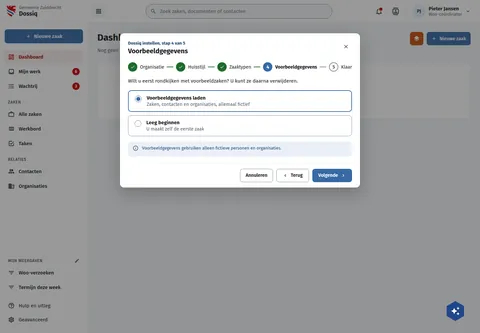
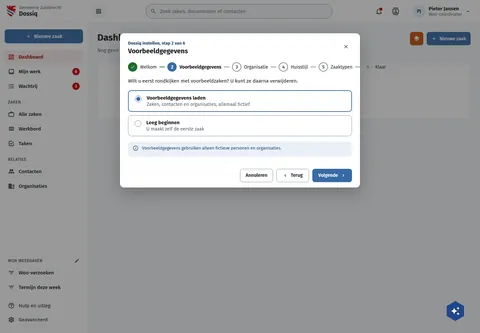
fix(screens): DqInstellen opens with Welkom, then the example data
Ruben, 3 Nov 2026: ADR-111 rule 4 wins over the board's order. The
wizard says what Dossiq is first, then offers the example data, then
asks for the organisation, house style and case types. The board shows
the example data step as step 2 of 6, with Welkom done.

Built with scripts/screens/build.py --only DqInstellen.

Assisted-by: ClaudeCode:claude-opus-5-5

Changed region(s): [[0.2812, 0.1802, 0.75, 0.2402], [0.7812, 0.1802, 0.8125, 0.2102]]

diff --git a/preview/screens/boards/DqInstellen.html b/preview/screens/boards/DqInstellen.html
@@ -151,10 +151,10 @@ a{color:var(--sc-primary, #3669a5)}a:hover{color:var(--sc-primary-deep, #234a78)
   <div style="position: absolute; inset: 0; background: rgba(27,28,29,0.45); display: flex; justify-content: center; align-items: flex-start; padding: 100px 16px 24px; box-sizing: border-box">
     <div role="dialog" aria-modal="true" aria-labelledby="dlg-titel" style="width: 720px; max-width: 100%; background: #ffffff; border-radius: 12px; box-shadow: 0 16px 48px rgba(27,28,29,0.28); display: flex; flex-direction: column">
       <div style="display: flex; justify-content: space-between; align-items: flex-start; gap: 16px; padding: 22px 24px 4px">
-        <div style="display: flex; flex-direction: column; gap: 4px"><span style="font-size: 13px; font-weight: 700; color: var(--sc-primary-deep, #234a78)">Dossiq instellen, stap 4 van 5</span><h2 id="dlg-titel" style="margin: 0; font-size: 20px; font-weight: 700">Voorbeeldgegevens</h2></div>
+        <div style="display: flex; flex-direction: column; gap: 4px"><span style="font-size: 13px; font-weight: 700; color: var(--sc-primary-deep, #234a78)">Dossiq instellen, stap 2 van 6</span><h2 id="dlg-titel" style="margin: 0; font-size: 20px; font-weight: 700">Voorbeeldgegevens</h2></div>
         <button type="button" aria-label="Sluiten" style="width: 36px; height: 36px; border: 0; border-radius: 18px; background: transparent; color: var(--sc-work-text, #3d4047); display: inline-flex; align-items: center; justify-content: center"><svg width="18" height="18" viewbox="0 0 24 24" fill="currentColor" aria-hidden="true"><path d="M19,6.41L17.59,5L12,10.59L6.41,5L5,6.41L10.59,12L5,17.59L6.41,19L12,13.41L17.59,19L19,17.59L13.41,12L19,6.41Z"></path></svg></button>
       </div>
-      <div style="padding: 18px 24px 20px; display: flex; flex-direction: column; gap: 16px"><ol style="margin: 0; padding: 0; list-style: none; display: flex; align-items: center; gap: 8px"><li style="display: flex; align-items: center; gap: 8px; font-size: 14px; "><span style="width: 28px; height: 28px; border-radius: 14px; background: #1e6b2a; color: #ffffff; display: flex; align-items: center; justify-content: center"><svg width="14" height="14" viewbox="0 0 24 24" fill="currentColor" aria-hidden="true"><path d="M21,7L9,19L3.5,13.5L4.91,12.09L9,16.17L19.59,5.59L21,7Z"></path></svg></span>Organisatie</li><li aria-hidden="true" style="flex: 1; height: 2px; background: #1e6b2a; min-width: 16px"></li><li style="display: flex; align-items: center; gap: 8px; font-size: 14px; "><span style="width: 28px; height: 28px; border-radius: 14px; background: #1e6b2a; color: #ffffff; display: flex; align-items: center; justify-content: center"><svg width="14" height="14" viewbox="0 0 24 24" fill="currentColor" aria-hidden="true"><path d="M21,7L9,19L3.5,13.5L4.91,12.09L9,16.17L19.59,5.59L21,7Z"></path></svg></span>Huisstijl</li><li aria-hidden="true" style="flex: 1; height: 2px; background: #1e6b2a; min-width: 16px"></li><li style="display: flex; align-items: center; gap: 8px; font-size: 14px; "><span style="width: 28px; height: 28px; border-radius: 14px; background: #1e6b2a; color: #ffffff; display: flex; align-items: center; justify-content: center"><svg width="14" height="14" viewbox="0 0 24 24" fill="currentColor" aria-hidden="true"><path d="M21,7L9,19L3.5,13.5L4.91,12.09L9,16.17L19.59,5.59L21,7Z"></path></svg></span>Zaaktypen</li><li aria-hidden="true" style="flex: 1; height: 2px; background: #1e6b2a; min-width: 16px"></li><li style="display: flex; align-items: center; gap: 8px; font-size: 14px; font-weight: 700"><span style="width: 28px; height: 28px; border-radius: 14px; background: var(--sc-primary, #3669a5); color: #ffffff; display: flex; align-items: center; justify-content: center; font-weight: 700; font-size: 14px">4</span>Voorbeeldgegevens</li><li aria-hidden="true" style="flex: 1; height: 2px; background: var(--sc-work-field, #828a95); min-width: 16px"></li><li style="display: flex; align-items: center; gap: 8px; font-size: 14px; "><span style="width: 28px; height: 28px; box-sizing: border-box; border-radius: 14px; border: 2px solid var(--sc-work-field, #828a95); color: var(--sc-work-muted, #5e6168); display: flex; align-items: center; justify-content: center; font-weight: 700; font-size: 14px">5</span>Klaar</li></ol><p style="margin: 0; font-size: 15px; line-height: 1.6">Wilt u eerst rondkijken met voorbeeldzaken? U kunt ze daarna verwijderen.</p><fieldset style="margin: 0; padding: 0; border: 0; display: flex; flex-direction: column; gap: 10px"><label style="display: flex; gap: 12px; align-items: flex-start; padding: 12px 14px; border: 2px solid var(--sc-primary, #3669a5); border-radius: 10px"><input type="radio" checked style="width: 20px; height: 20px; accent-color: var(--sc-primary, #3669a5); margin-top: 2px"><span style="display: flex; flex-direction: column; gap: 2px"><strong style="font-size: 15px">Voorbeeldgegevens laden</strong><span style="font-size: 14px; color: var(--sc-work-muted, #5e6168)">Zaken, contacten en organisaties, allemaal fictief</span></span></label><label style="display: flex; gap: 12px; align-items: flex-start; padding: 12px 14px; border: 1px solid var(--sc-work-field, #828a95); border-radius: 10px"><input type="radio" style="width: 20px; height: 20px; accent-color: var(--sc-primary, #3669a5); margin-top: 2px"><span style="display: flex; flex-direction: column; gap: 2px"><strong style="font-size: 15px">Leeg beginnen</strong><span style="font-size: 14px; color: var(--sc-work-muted, #5e6168)">U maakt zelf de eerste zaak</span></span></label></fieldset><div style="display: flex; gap: 10px; align-items: flex-start; padding: 10px 14px; border-radius: 10px; background: var(--sc-primary-light, #eaf0f7); color: var(--sc-primary-deep, #234a78); font-size: 13px; line-height: 1.5"><span style="flex: none; margin-top: 1px"><svg width="18" height="18" viewbox="0 0 24 24" fill="currentColor" aria-hidden="true"><path d="M11,9H13V7H11M12,20C7.59,20 4,16.41 4,12C4,7.59 7.59,4 12,4C16.41,4 20,7.59 20,12C20,16.41 16.41,20 12,20M12,2A10,10 0 0,0 2,12A10,10 0 0,0 12,22A10,10 0 0,0 22,12A10,10 0 0,0 12,2M11,17H13V11H11V17Z"></path></svg></span><span>Voorbeeldgegevens gebruiken alleen fictieve personen en organisaties.</span></div></div>
+      <div style="padding: 18px 24px 20px; display: flex; flex-direction: column; gap: 16px"><ol style="margin: 0; padding: 0; list-style: none; display: flex; align-items: center; gap: 8px"><li style="display: flex; align-items: center; gap: 8px; font-size: 14px; "><span style="width: 28px; height: 28px; border-radius: 14px; background: #1e6b2a; color: #ffffff; display: flex; align-items: center; justify-content: center"><svg width="14" height="14" viewbox="0 0 24 24" fill="currentColor" aria-hidden="true"><path d="M21,7L9,19L3.5,13.5L4.91,12.09L9,16.17L19.59,5.59L21,7Z"></path></svg></span>Welkom</li><li aria-hidden="true" style="flex: 1; height: 2px; background: #1e6b2a; min-width: 16px"></li><li style="display: flex; align-items: center; gap: 8px; font-size: 14px; font-weight: 700"><span style="width: 28px; height: 28px; border-radius: 14px; background: var(--sc-primary, #3669a5); color: #ffffff; display: flex; align-items: center; justify-content: center; font-weight: 700; font-size: 14px">2</span>Voorbeeldgegevens</li><li aria-hidden="true" style="flex: 1; height: 2px; background: var(--sc-work-field, #828a95); min-width: 16px"></li><li style="display: flex; align-items: center; gap: 8px; font-size: 14px; "><span style="width: 28px; height: 28px; box-sizing: border-box; border-radius: 14px; border: 2px solid var(--sc-work-field, #828a95); color: var(--sc-work-muted, #5e6168); display: flex; align-items: center; justify-content: center; font-weight: 700; font-size: 14px">3</span>Organisatie</li><li aria-hidden="true" style="flex: 1; height: 2px; background: var(--sc-work-field, #828a95); min-width: 16px"></li><li style="display: flex; align-items: center; gap: 8px; font-size: 14px; "><span style="width: 28px; height: 28px; box-sizing: border-box; border-radius: 14px; border: 2px solid var(--sc-work-field, #828a95); color: var(--sc-work-muted, #5e6168); display: flex; align-items: center; justify-content: center; font-weight: 700; font-size: 14px">4</span>Huisstijl</li><li aria-hidden="true" style="flex: 1; height: 2px; background: var(--sc-work-field, #828a95); min-width: 16px"></li><li style="display: flex; align-items: center; gap: 8px; font-size: 14px; "><span style="width: 28px; height: 28px; box-sizing: border-box; border-radius: 14px; border: 2px solid var(--sc-work-field, #828a95); color: var(--sc-work-muted, #5e6168); display: flex; align-items: center; justify-content: center; font-weight: 700; font-size: 14px">5</span>Zaaktypen</li><li aria-hidden="true" style="flex: 1; height: 2px; background: var(--sc-work-field, #828a95); min-width: 16px"></li><li style="display: flex; align-items: center; gap: 8px; font-size: 14px; "><span style="width: 28px; height: 28px; box-sizing: border-box; border-radius: 14px; border: 2px solid var(--sc-work-field, #828a95); color: var(--sc-work-muted, #5e6168); display: flex; align-items: center; justify-content: center; font-weight: 700; font-size: 14px">6</span>Klaar</li></ol><p style="margin: 0; font-size: 15px; line-height: 1.6">Wilt u eerst rondkijken met voorbeeldzaken? U kunt ze daarna verwijderen.</p><fieldset style="margin: 0; padding: 0; border: 0; display: flex; flex-direction: column; gap: 10px"><label style="display: flex; gap: 12px; align-items: flex-start; padding: 12px 14px; border: 2px solid var(--sc-primary, #3669a5); border-radius: 10px"><input type="radio" checked style="width: 20px; height: 20px; accent-color: var(--sc-primary, #3669a5); margin-top: 2px"><span style="display: flex; flex-direction: column; gap: 2px"><strong style="font-size: 15px">Voorbeeldgegevens laden</strong><span style="font-size: 14px; color: var(--sc-work-muted, #5e6168)">Zaken, contacten en organisaties, allemaal fictief</span></span></label><label style="display: flex; gap: 12px; align-items: flex-start; padding: 12px 14px; border: 1px solid var(--sc-work-field, #828a95); border-radius: 10px"><input type="radio" style="width: 20px; height: 20px; accent-color: var(--sc-primary, #3669a5); margin-top: 2px"><span style="display: flex; flex-direction: column; gap: 2px"><strong style="font-size: 15px">Leeg beginnen</strong><span style="font-size: 14px; color: var(--sc-work-muted, #5e6168)">U maakt zelf de eerste zaak</span></span></label></fieldset><div style="display: flex; gap: 10px; align-items: flex-start; padding: 10px 14px; border-radius: 10px; background: var(--sc-primary-light, #eaf0f7); color: var(--sc-primary-deep, #234a78); font-size: 13px; line-height: 1.5"><span style="flex: none; margin-top: 1px"><svg width="18" height="18" viewbox="0 0 24 24" fill="currentColor" aria-hidden="true"><path d="M11,9H13V7H11M12,20C7.59,20 4,16.41 4,12C4,7.59 7.59,4 12,4C16.41,4 20,7.59 20,12C20,16.41 16.41,20 12,20M12,2A10,10 0 0,0 2,12A10,10 0 0,0 12,22A10,10 0 0,0 22,12A10,10 0 0,0 12,2M11,17H13V11H11V17Z"></path></svg></span><span>Voorbeeldgegevens gebruiken alleen fictieve personen en organisaties.</span></div></div>
       <div style="display: flex; justify-content: flex-end; gap: 10px; padding: 16px 24px; border-top: 1px solid var(--sc-work-soft, #eef0f3)"><button type="button" style="display: inline-flex; align-items: center; gap: 8px; height: 40px; padding: 0 16px; border-radius: 8px; font: 600 14px var(--sc-font, 'Fira Sans'), sans-serif; white-space: nowrap; border: 1px solid var(--sc-work-field, #828a95); background: #ffffff; color: var(--sc-work-ink, #1b1c1d);">Annuleren</button><button type="button" style="display: inline-flex; align-items: center; gap: 8px; height: 40px; padding: 0 18px; border-radius: 8px; font: 600 14px var(--sc-font, 'Fira Sans'), sans-serif; white-space: nowrap; border: 1px solid var(--sc-work-field, #828a95); background: #ffffff; color: var(--sc-work-ink, #1b1c1d);"><svg width="16" height="16" viewbox="0 0 24 24" fill="currentColor" aria-hidden="true"><path d="M15.41,16.58L10.83,12L15.41,7.41L14,6L8,12L14,18L15.41,16.58Z"></path></svg>Terug</button><button type="button" style="display: inline-flex; align-items: center; gap: 8px; height: 40px; padding: 0 18px; border-radius: 8px; font: 600 14px var(--sc-font, 'Fira Sans'), sans-serif; white-space: nowrap; border: 0; background: var(--sc-primary, #3669a5); color: #ffffff;">Volgende<svg width="16" height="16" viewbox="0 0 24 24" fill="currentColor" aria-hidden="true"><path d="M8.59,16.58L13.17,12L8.59,7.41L10,6L16,12L10,18L8.59,16.58Z"></path></svg></button></div>
     </div>
   </div>

diff --git a/screens-src/zuiddrecht/DqInstellen.dc.html b/screens-src/zuiddrecht/DqInstellen.dc.html
@@ -33,10 +33,10 @@ a{color:#3669a5}a:hover{color:#234a78}
   <div style="position: absolute; inset: 0; background: rgba(27,28,29,0.45); display: flex; justify-content: center; align-items: flex-start; padding: 100px 16px 24px; box-sizing: border-box">
     <div role="dialog" aria-modal="true" aria-labelledby="dlg-titel" style="width: 720px; max-width: 100%; background: #ffffff; border-radius: 12px; box-shadow: 0 16px 48px rgba(27,28,29,0.28); display: flex; flex-direction: column">
       <div style="display: flex; justify-content: space-between; align-items: flex-start; gap: 16px; padding: 22px 24px 4px">
-        <div style="display: flex; flex-direction: column; gap: 4px"><span style="font-size: 13px; font-weight: 700; color: #234a78">Dossiq instellen, stap 4 van 5</span><h2 id="dlg-titel" style="margin: 0; font-size: 20px; font-weight: 700">Voorbeeldgegevens</h2></div>
+        <div style="display: flex; flex-direction: column; gap: 4px"><span style="font-size: 13px; font-weight: 700; color: #234a78">Dossiq instellen, stap 2 van 6</span><h2 id="dlg-titel" style="margin: 0; font-size: 20px; font-weight: 700">Voorbeeldgegevens</h2></div>
         <button type="button" aria-label="Sluiten" style="width: 36px; height: 36px; border: 0; border-radius: 18px; background: transparent; color: #3d4047; display: inline-flex; align-items: center; justify-content: center"><svg width="18" height="18" viewBox="0 0 24 24" fill="currentColor" aria-hidden="true"><path d="M19,6.41L17.59,5L12,10.59L6.41,5L5,6.41L10.59,12L5,17.59L6.41,19L12,13.41L17.59,19L19,17.59L13.41,12L19,6.41Z"></path></svg></button>
       </div>
-      <div style="padding: 18px 24px 20px; display: flex; flex-direction: column; gap: 16px"><ol style="margin: 0; padding: 0; list-style: none; display: flex; align-items: center; gap: 8px"><li style="display: flex; align-items: center; gap: 8px; font-size: 14px; "><span style="width: 28px; height: 28px; border-radius: 14px; background: #1e6b2a; color: #ffffff; display: flex; align-items: center; justify-content: center"><svg width="14" height="14" viewBox="0 0 24 24" fill="currentColor" aria-hidden="true"><path d="M21,7L9,19L3.5,13.5L4.91,12.09L9,16.17L19.59,5.59L21,7Z"></path></svg></span>Organisatie</li><li aria-hidden="true" style="flex: 1; height: 2px; background: #1e6b2a; min-width: 16px"></li><li style="display: flex; align-items: center; gap: 8px; font-size: 14px; "><span style="width: 28px; height: 28px; border-radius: 14px; background: #1e6b2a; color: #ffffff; display: flex; align-items: center; justify-content: center"><svg width="14" height="14" viewBox="0 0 24 24" fill="currentColor" aria-hidden="true"><path d="M21,7L9,19L3.5,13.5L4.91,12.09L9,16.17L19.59,5.59L21,7Z"></path></svg></span>Huisstijl</li><li aria-hidden="true" style="flex: 1; height: 2px; background: #1e6b2a; min-width: 16px"></li><li style="display: flex; align-items: center; gap: 8px; font-size: 14px; "><span style="width: 28px; height: 28px; border-radius: 14px; background: #1e6b2a; color: #ffffff; display: flex; align-items: center; justify-content: center"><svg width="14" height="14" viewBox="0 0 24 24" fill="currentColor" aria-hidden="true"><path d="M21,7L9,19L3.5,13.5L4.91,12.09L9,16.17L19.59,5.59L21,7Z"></path></svg></span>Zaaktypen</li><li aria-hidden="true" style="flex: 1; height: 2px; background: #1e6b2a; min-width: 16px"></li><li style="display: flex; align-items: center; gap: 8px; font-size: 14px; font-weight: 700"><span style="width: 28px; height: 28px; border-radius: 14px; background: #3669a5; color: #ffffff; display: flex; align-items: center; justify-content: center; font-weight: 700; font-size: 14px">4</span>Voorbeeldgegevens</li><li aria-hidden="true" style="flex: 1; height: 2px; background: #828a95; min-width: 16px"></li><li style="display: flex; align-items: center; gap: 8px; font-size: 14px; "><span style="width: 28px; height: 28px; box-sizing: border-box; border-radius: 14px; border: 2px solid #828a95; color: #5e6168; display: flex; align-items: center; justify-content: center; font-weight: 700; font-size: 14px">5</span>Klaar</li></ol><p style="margin: 0; font-size: 15px; line-height: 1.6">Wilt u eerst rondkijken met voorbeeldzaken? U kunt ze daarna verwijderen.</p><fieldset style="margin: 0; padding: 0; border: 0; display: flex; flex-direction: column; gap: 10px"><label style="display: flex; gap: 12px; align-items: flex-start; padding: 12px 14px; border: 2px solid #3669a5; border-radius: 10px"><input type="radio" checked style="width: 20px; height: 20px; accent-color: #3669a5; margin-top: 2px"><span style="display: flex; flex-direction: column; gap: 2px"><strong style="font-size: 15px">Voorbeeldgegevens laden</strong><span style="font-size: 14px; color: #5e6168">Zaken, contacten en organisaties, allemaal fictief</span></span></label><label style="display: flex; gap: 12px; align-items: flex-start; padding: 12px 14px; border: 1px solid #828a95; border-radius: 10px"><input type="radio"  style="width: 20px; height: 20px; accent-color: #3669a5; margin-top: 2px"><span style="display: flex; flex-direction: column; gap: 2px"><strong style="font-size: 15px">Leeg beginnen</strong><span style="font-size: 14px; color: #5e6168">U maakt zelf de eerste zaak</span></span></label></fieldset><div style="display: flex; gap: 10px; align-items: flex-start; padding: 10px 14px; border-radius: 10px; background: #eaf0f7; color: #234a78; font-size: 13px; line-height: 1.5"><span style="flex: none; margin-top: 1px"><svg width="18" height="18" viewBox="0 0 24 24" fill="currentColor" aria-hidden="true"><path d="M11,9H13V7H11M12,20C7.59,20 4,16.41 4,12C4,7.59 7.59,4 12,4C16.41,4 20,7.59 20,12C20,16.41 16.41,20 12,20M12,2A10,10 0 0,0 2,12A10,10 0 0,0 12,22A10,10 0 0,0 22,12A10,10 0 0,0 12,2M11,17H13V11H11V17Z"></path></svg></span><span>Voorbeeldgegevens gebruiken alleen fictieve personen en organisaties.</span></div></div>
+      <div style="padding: 18px 24px 20px; display: flex; flex-direction: column; gap: 16px"><ol style="margin: 0; padding: 0; list-style: none; display: flex; align-items: center; gap: 8px"><li style="display: flex; align-items: center; gap: 8px; font-size: 14px; "><span style="width: 28px; height: 28px; border-radius: 14px; background: #1e6b2a; color: #ffffff; display: flex; align-items: center; justify-content: center"><svg width="14" height="14" viewBox="0 0 24 24" fill="currentColor" aria-hidden="true"><path d="M21,7L9,19L3.5,13.5L4.91,12.09L9,16.17L19.59,5.59L21,7Z"></path></svg></span>Welkom</li><li aria-hidden="true" style="flex: 1; height: 2px; background: #1e6b2a; min-width: 16px"></li><li style="display: flex; align-items: center; gap: 8px; font-size: 14px; font-weight: 700"><span style="width: 28px; height: 28px; border-radius: 14px; background: #3669a5; color: #ffffff; display: flex; align-items: center; justify-content: center; font-weight: 700; font-size: 14px">2</span>Voorbeeldgegevens</li><li aria-hidden="true" style="flex: 1; height: 2px; background: #828a95; min-width: 16px"></li><li style="display: flex; align-items: center; gap: 8px; font-size: 14px; "><span style="width: 28px; height: 28px; box-sizing: border-box; border-radius: 14px; border: 2px solid #828a95; color: #5e6168; display: flex; align-items: center; justify-content: center; font-weight: 700; font-size: 14px">3</span>Organisatie</li><li aria-hidden="true" style="flex: 1; height: 2px; background: #828a95; min-width: 16px"></li><li style="display: flex; align-items: center; gap: 8px; font-size: 14px; "><span style="width: 28px; height: 28px; box-sizing: border-box; border-radius: 14px; border: 2px solid #828a95; color: #5e6168; display: flex; align-items: center; justify-content: center; font-weight: 700; font-size: 14px">4</span>Huisstijl</li><li aria-hidden="true" style="flex: 1; height: 2px; background: #828a95; min-width: 16px"></li><li style="display: flex; align-items: center; gap: 8px; font-size: 14px; "><span style="width: 28px; height: 28px; box-sizing: border-box; border-radius: 14px; border: 2px solid #828a95; color: #5e6168; display: flex; align-items: center; justify-content: center; font-weight: 700; font-size: 14px">5</span>Zaaktypen</li><li aria-hidden="true" style="flex: 1; height: 2px; background: #828a95; min-width: 16px"></li><li style="display: flex; align-items: center; gap: 8px; font-size: 14px; "><span style="width: 28px; height: 28px; box-sizing: border-box; border-radius: 14px; border: 2px solid #828a95; color: #5e6168; display: flex; align-items: center; justify-content: center; font-weight: 700; font-size: 14px">6</span>Klaar</li></ol><p style="margin: 0; font-size: 15px; line-height: 1.6">Wilt u eerst rondkijken met voorbeeldzaken? U kunt ze daarna verwijderen.</p><fieldset style="margin: 0; padding: 0; border: 0; display: flex; flex-direction: column; gap: 10px"><label style="display: flex; gap: 12px; align-items: flex-start; padding: 12px 14px; border: 2px solid #3669a5; border-radius: 10px"><input type="radio" checked style="width: 20px; height: 20px; accent-color: #3669a5; margin-top: 2px"><span style="display: flex; flex-direction: column; gap: 2px"><strong style="font-size: 15px">Voorbeeldgegevens laden</strong><span style="font-size: 14px; color: #5e6168">Zaken, contacten en organisaties, allemaal fictief</span></span></label><label style="display: flex; gap: 12px; align-items: flex-start; padding: 12px 14px; border: 1px solid #828a95; border-radius: 10px"><input type="radio"  style="width: 20px; height: 20px; accent-color: #3669a5; margin-top: 2px"><span style="display: flex; flex-direction: column; gap: 2px"><strong style="font-size: 15px">Leeg beginnen</strong><span style="font-size: 14px; color: #5e6168">U maakt zelf de eerste zaak</span></span></label></fieldset><div style="display: flex; gap: 10px; align-items: flex-start; padding: 10px 14px; border-radius: 10px; background: #eaf0f7; color: #234a78; font-size: 13px; line-height: 1.5"><span style="flex: none; margin-top: 1px"><svg width="18" height="18" viewBox="0 0 24 24" fill="currentColor" aria-hidden="true"><path d="M11,9H13V7H11M12,20C7.59,20 4,16.41 4,12C4,7.59 7.59,4 12,4C16.41,4 20,7.59 20,12C20,16.41 16.41,20 12,20M12,2A10,10 0 0,0 2,12A10,10 0 0,0 12,22A10,10 0 0,0 22,12A10,10 0 0,0 12,2M11,17H13V11H11V17Z"></path></svg></span><span>Voorbeeldgegevens gebruiken alleen fictieve personen en organisaties.</span></div></div>
       <div style="display: flex; justify-content: flex-end; gap: 10px; padding: 16px 24px; border-top: 1px solid #eef0f3"><button type="button" style="display: inline-flex; align-items: center; gap: 8px; height: 40px; padding: 0 16px; border-radius: 8px; font: 600 14px 'Fira Sans', sans-serif; white-space: nowrap; border: 1px solid #828a95; background: #ffffff; color: #1b1c1d;">Annuleren</button><button type="button" style="display: inline-flex; align-items: center; gap: 8px; height: 40px; padding: 0 18px; border-radius: 8px; font: 600 14px 'Fira Sans', sans-serif; white-space: nowrap; border: 1px solid #828a95; background: #ffffff; color: #1b1c1d;"><svg width="16" height="16" viewBox="0 0 24 24" fill="currentColor" aria-hidden="true"><path d="M15.41,16.58L10.83,12L15.41,7.41L14,6L8,12L14,18L15.41,16.58Z"></path></svg>Terug</button><button type="button" style="display: inline-flex; align-items: center; gap: 8px; height: 40px; padding: 0 18px; border-radius: 8px; font: 600 14px 'Fira Sans', sans-serif; white-space: nowrap; border: 0; background: #3669a5; color: #ffffff;">Volgende<svg width="16" height="16" viewBox="0 0 24 24" fill="currentColor" aria-hidden="true"><path d="M8.59,16.58L13.17,12L8.59,7.41L10,6L16,12L10,18L8.59,16.58Z"></path></svg></button></div>
     </div>
   </div>
